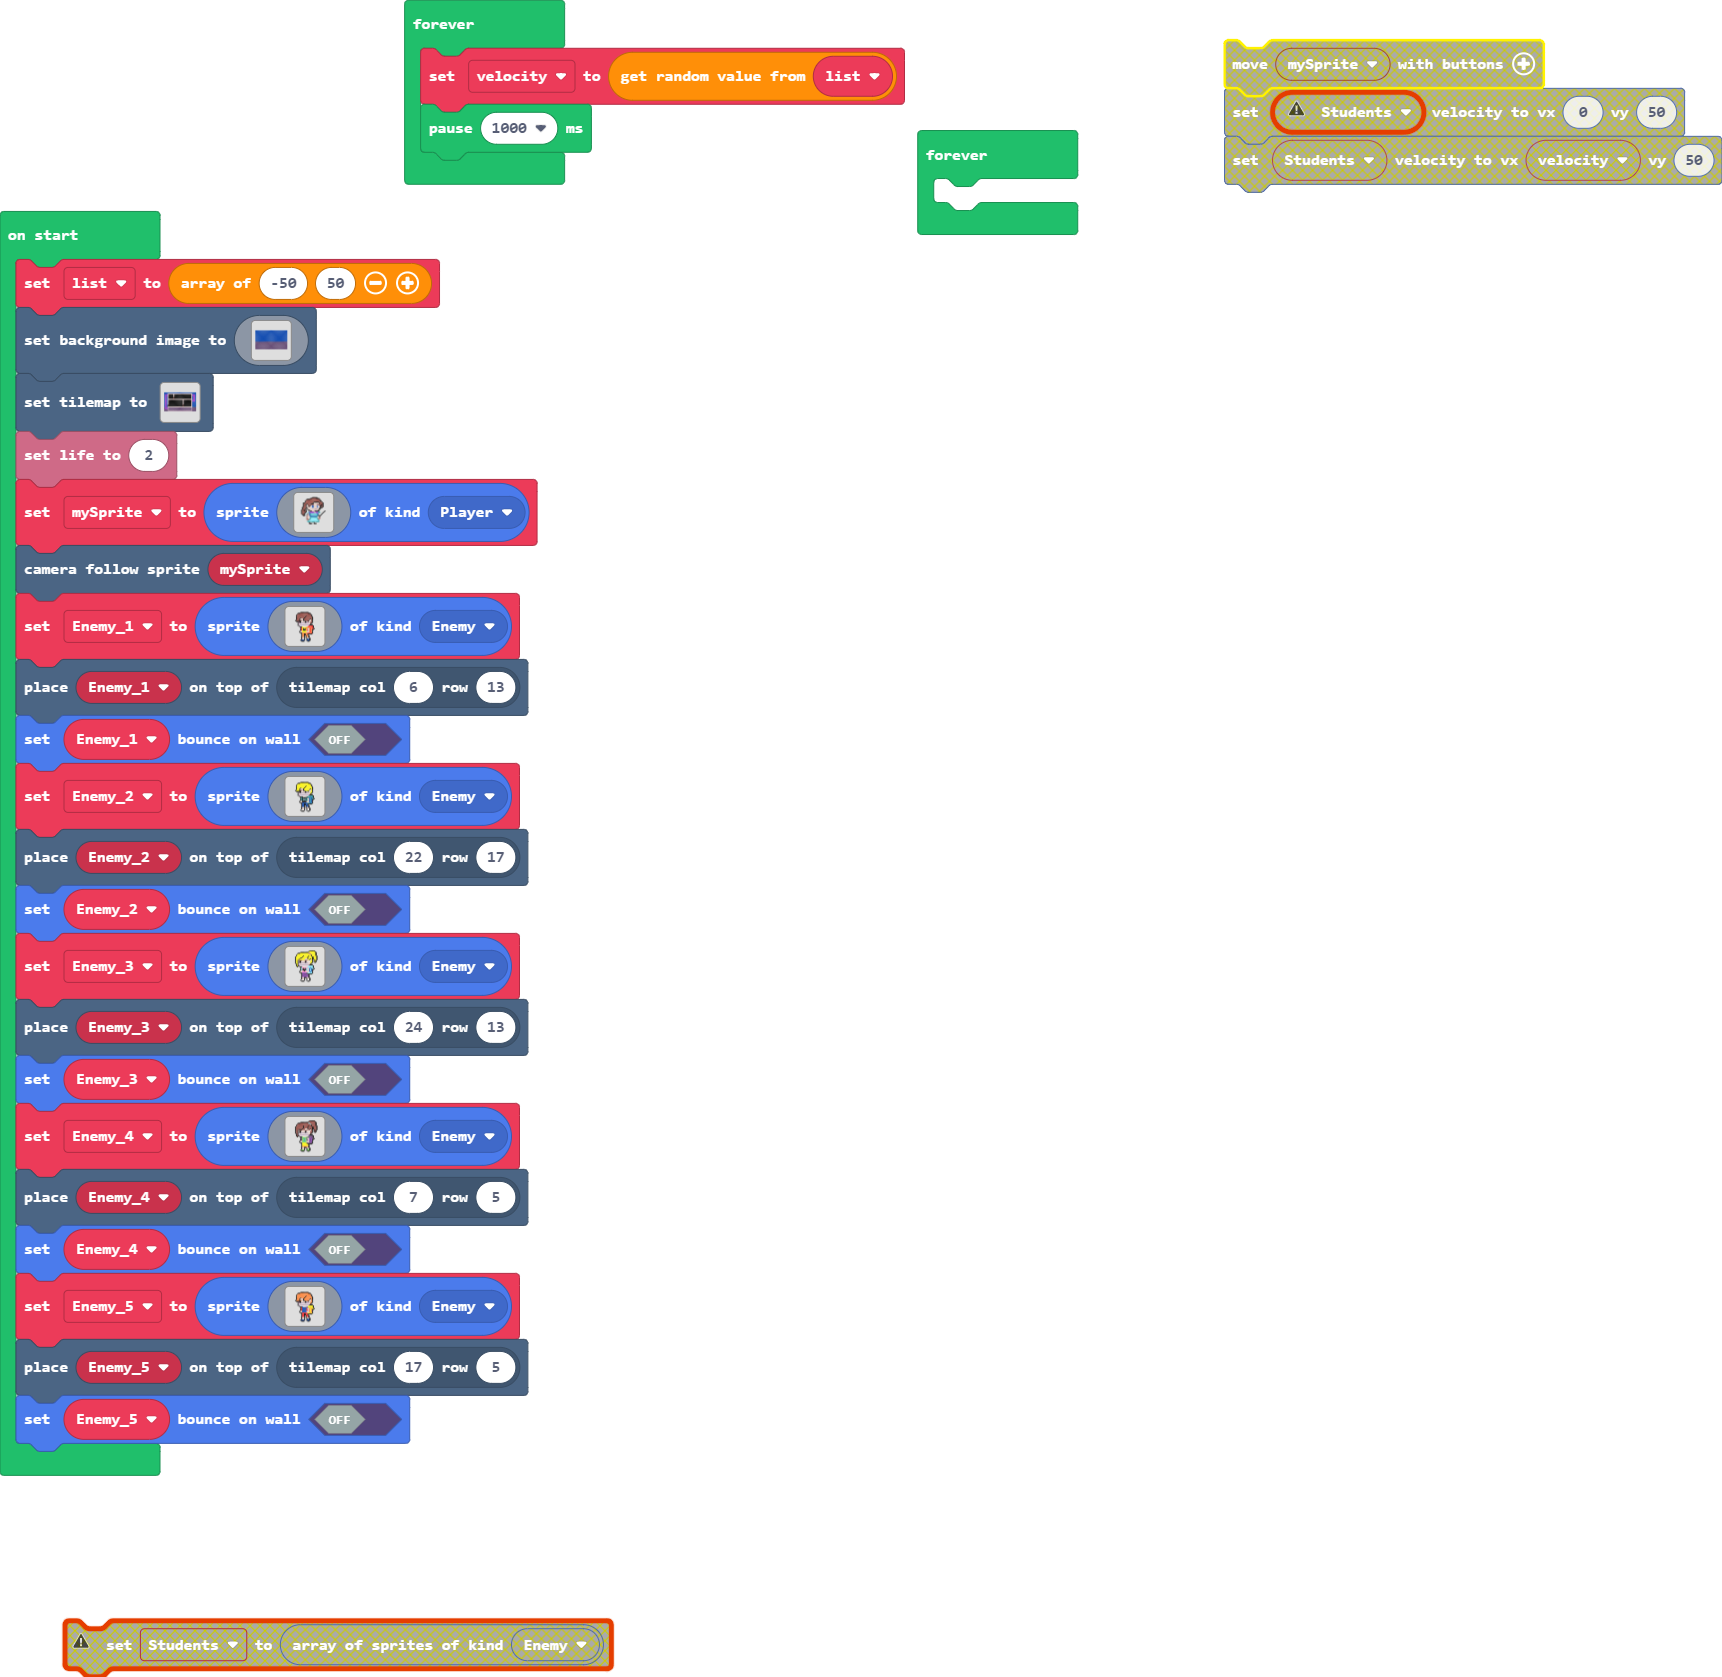
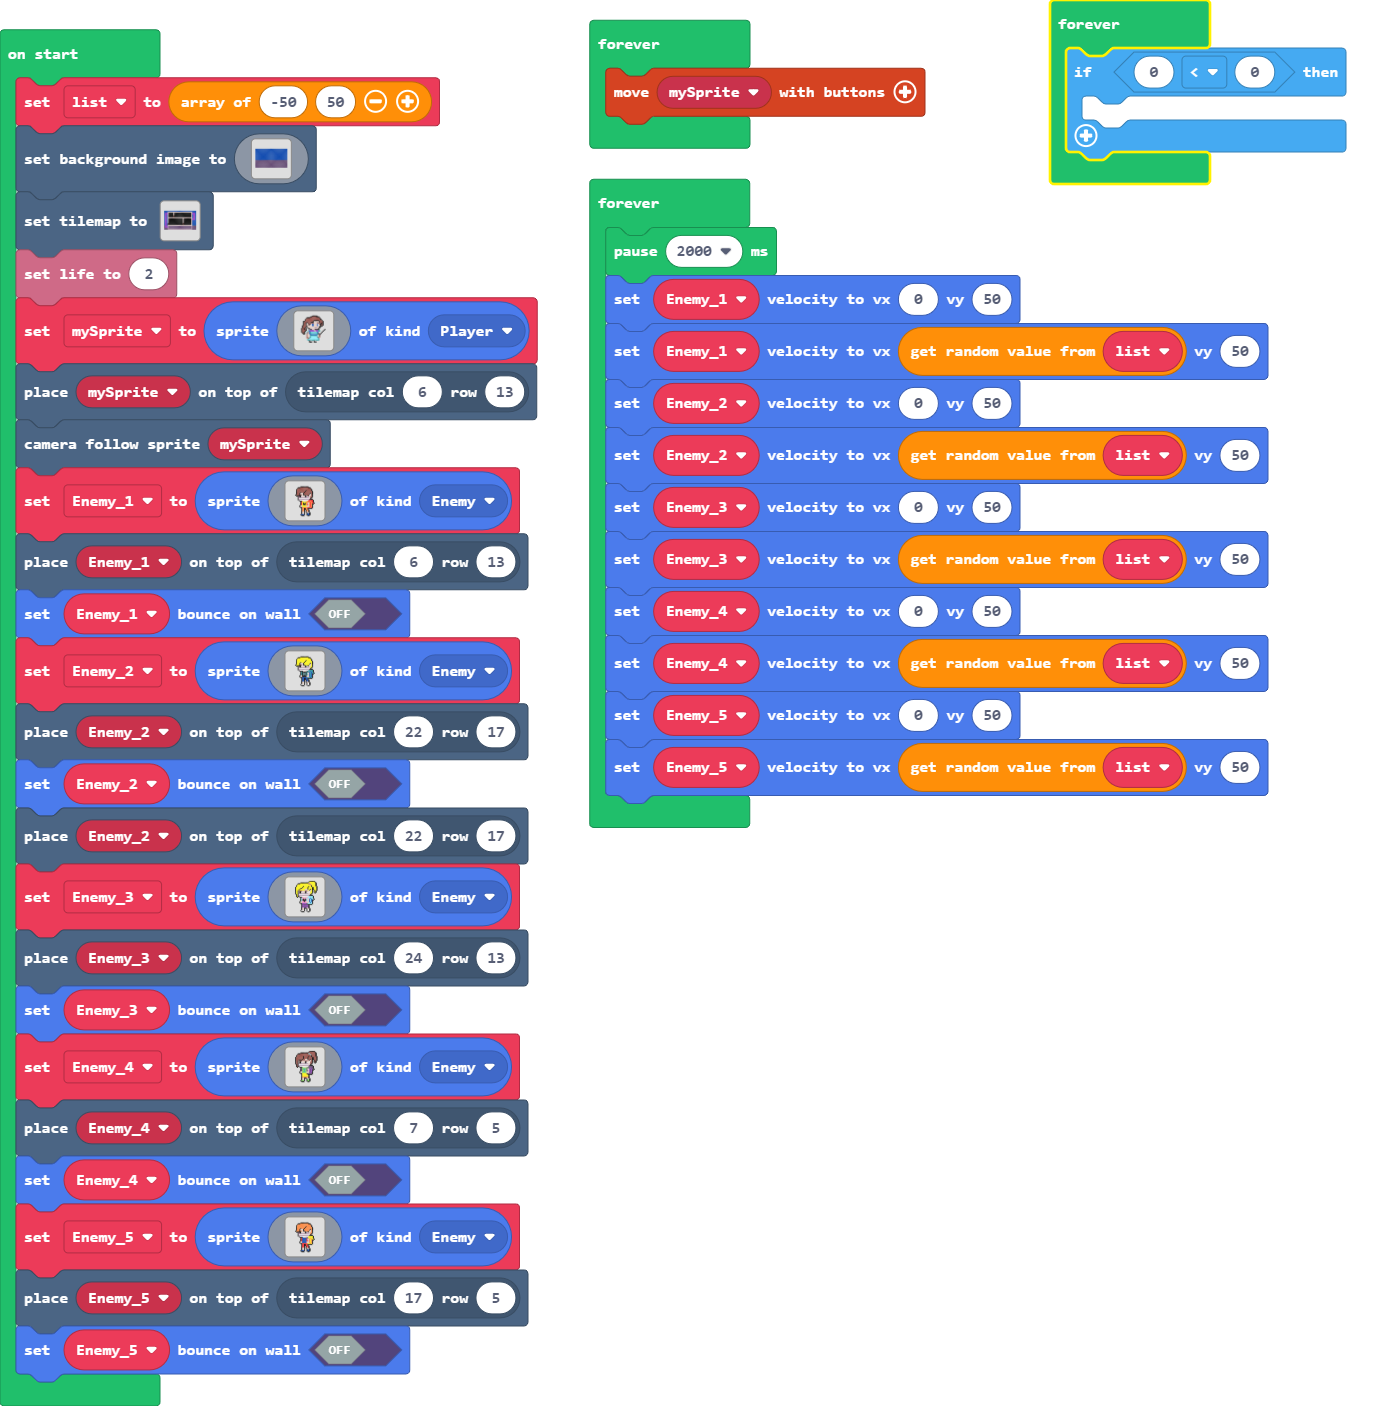
Update main.blocks, main.ts

diff --git a/main.ts b/main.ts
@@ -1,4 +1,3 @@
-let velocity = 0
 let list = [-50, 50]
 scene.setBackgroundImage(img`
     8888888888888888888888888888888888
@@ -25,6 +24,7 @@ scene.setBackgroundImage(img`
 tiles.setTilemap(tilemap`level 1`)
 info.setLife(2)
 let mySprite = sprites.create(assets.image`Teacher right`, SpriteKind.Player)
+tiles.placeOnTile(mySprite, tiles.getTileLocation(6, 13))
 scene.cameraFollowSprite(mySprite)
 let Enemy_1 = sprites.create(assets.image`Enemy 1 left`, SpriteKind.Enemy)
 tiles.placeOnTile(Enemy_1, tiles.getTileLocation(6, 13))
@@ -32,6 +32,7 @@ Enemy_1.setBounceOnWall(false)
 let Enemy_2 = sprites.create(assets.image`Enemy 2 left`, SpriteKind.Enemy)
 tiles.placeOnTile(Enemy_2, tiles.getTileLocation(22, 17))
 Enemy_2.setBounceOnWall(false)
+tiles.placeOnTile(Enemy_2, tiles.getTileLocation(22, 17))
 let Enemy_3 = sprites.create(assets.image`Enemy 3 left`, SpriteKind.Enemy)
 tiles.placeOnTile(Enemy_3, tiles.getTileLocation(24, 13))
 Enemy_3.setBounceOnWall(false)
@@ -42,9 +43,23 @@ let Enemy_5 = sprites.create(assets.image`Enemy 5 left`, SpriteKind.Enemy)
 tiles.placeOnTile(Enemy_5, tiles.getTileLocation(17, 5))
 Enemy_5.setBounceOnWall(false)
 forever(function () {
-    velocity = list._pickRandom()
-    pause(1000)
+    controller.moveSprite(mySprite)
 })
 forever(function () {
-	
+    if (0 < 0) {
+    	
+    }
+})
+forever(function () {
+    pause(2000)
+    Enemy_1.setVelocity(0, 50)
+    Enemy_1.setVelocity(list._pickRandom(), 50)
+    Enemy_2.setVelocity(0, 50)
+    Enemy_2.setVelocity(list._pickRandom(), 50)
+    Enemy_3.setVelocity(0, 50)
+    Enemy_3.setVelocity(list._pickRandom(), 50)
+    Enemy_4.setVelocity(0, 50)
+    Enemy_4.setVelocity(list._pickRandom(), 50)
+    Enemy_5.setVelocity(0, 50)
+    Enemy_5.setVelocity(list._pickRandom(), 50)
 })
